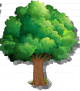
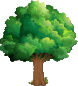
Trees, creatures obstacle collision and stop hero added

diff --git a/DAWN EVILS/DAWN EVILS.cpp b/DAWN EVILS/DAWN EVILS.cpp
@@ -119,9 +119,10 @@ ID2D1Bitmap* bmpShot[33]{ nullptr };
 
 dll::creature_ptr Hero{ nullptr };
 std::vector<dll::creature_ptr>vZombies;
+std::vector<dll::creature_ptr>vBullets;
+std::vector<dll::PROTON>vTrees;
 
-
-
+bool stop_hero = false;
 
 ///////////////////////////////////////////////////
 template<typename T>concept InHeap = requires(T check_var)
@@ -206,13 +207,44 @@ void InitGame()
     name_set = false;
 
     ClearHeap(&Hero);
-    Hero = dll::CreatureFactory(hero_flag, RandGenerator(0, (int)(scr_width - 100.0f)), (int)(ground - 80.0f));
+    Hero = dll::CreatureFactory(hero_flag, (float)(RandGenerator(0, (int)(scr_width - 100.0f))), (int)(ground - 80.0f));
     if (!vZombies.empty())
         for (int i = 0; i < vZombies.size(); i++)ClearHeap(&vZombies[i]);
     vZombies.clear();
+    if (!vBullets.empty())
+        for (int i = 0; i < vBullets.size(); i++)ClearHeap(&vBullets[i]);
+    vBullets.clear();
+   
+    vTrees.clear();
 
+    for (float rows = 100.0f; rows < ground - 100.0f; rows += 100.0f)
+    {
+        for (float cols = 50.0f; cols < scr_width - 100.0f; cols += 100.0f)
+        {
+            if (RandGenerator(0, 4) == 1)
+            {
+                vTrees.push_back(dll::PROTON(cols, rows));
+                switch (RandGenerator(0, 2))
+                {
+                case 0:
+                    vTrees.back().SetFlag(tree1_flag);
+                    vTrees.back().NewDims(47.0f, 80.0f);
+                    break;
+
+                case 1:
+                    vTrees.back().SetFlag(tree2_flag);
+                    vTrees.back().NewDims(78.0f, 86.0f);
+                    break;
+
+                case 3:
+                    vTrees.back().SetFlag(tree3_flag);
+                    vTrees.back().NewDims(98.0f, 90.0f);
+                    break;
+                }
+            }
+        }
+    }
 }
-
 
 INT_PTR CALLBACK bDlgProc(HWND hwnd, UINT ReceivedMsg, WPARAM wParam, LPARAM lParam)
 {
@@ -397,6 +429,24 @@ LRESULT CALLBACK bWinProc(HWND hwnd, UINT ReceivedMsg, WPARAM wParam, LPARAM lPa
 
         }
         break;
+
+    case WM_LBUTTONDOWN:
+        if (HIWORD(lParam <= 50))
+        {
+
+        }
+        else
+        {
+            stop_hero = false;
+            if (Hero)Hero->Move(true, LOWORD(lParam), HIWORD(lParam));
+        }
+        break;
+
+    case WM_RBUTTONDOWN:
+        stop_hero = true;
+        break;
+
+
 
     default: return DefWindowProc(hwnd, ReceivedMsg, wParam, lParam);
     }
@@ -810,8 +860,70 @@ int APIENTRY wWinMain(_In_ HINSTANCE hInstance, _In_opt_ HINSTANCE hPrevInstance
             }
         }
 
+        if (Hero)
+        {
+            if (!stop_hero)
+            {
+                bool obstacle_hit = false;
+                if (!vTrees.empty())
+                {
+                    for (int i = 0; i < vTrees.size(); ++i)
+                    {
+                        if (!(Hero->x >= vTrees[i].ex || Hero->ex <= vTrees[i].x
+                            || Hero->y >= vTrees[i].ey || Hero->ey <= vTrees[i].y))
+                        {
+                            Hero->ObstacleDetour(vTrees[i]);
+                            obstacle_hit = true;
+                            break;
+                        }
+                    }
+                }
 
+                if (!obstacle_hit) Hero->Move(false);
+            }
 
+            int bull_strenght = Hero->Attack();
+            if (bull_strenght > 0 && !vZombies.empty())
+            {
+                dll::PROT_CONTAINER Targets(vZombies.size());
+                for (int i = 0; i < vZombies.size(); ++i)
+                {
+                    dll::PROTON Dummy{ vZombies[i]->x, vZombies[i]->y };
+                    Targets.push_back(Dummy);
+                }
+                dll::PROTON HeroPosition{ Hero->x,Hero->y };
+                Targets.distance_sort(HeroPosition);
+
+                vBullets.push_back(dll::CreatureFactory(bullet_flag, Hero->ex, Hero->y + 20.0f, Targets[0].x, Targets[0].y));
+            }
+        }
+
+        if (!vBullets.empty())
+        {
+            for (std::vector<dll::creature_ptr>::iterator bullet = vBullets.begin(); bullet < vBullets.end(); ++bullet)
+            {
+                (*bullet)->Move(false);
+                if ((*bullet)->x <= 0 || (*bullet)->ex >= scr_width || (*bullet)->y <= sky || (*bullet)->ey >= ground)
+                {
+                    (*bullet)->Release();
+                    vBullets.erase(bullet);
+                    break;
+                }
+            }
+        }
+
+        if (!vTrees.empty() && !vZombies.empty())
+        {
+            for (std::vector<dll::creature_ptr>::iterator zombie = vZombies.begin(); zombie < vZombies.end(); zombie++)
+            {
+                for (int i = 0; i < vTrees.size(); i++)
+                {
+                    if (!((*zombie)->x >= vTrees[i].ex || (*zombie)->ex <= vTrees[i].x
+                        || (*zombie)->y >= vTrees[i].ey || (*zombie)->ey <= vTrees[i].y))
+                        (*zombie)->ObstacleDetour(vTrees[i]);
+                }
+            }
+        }
 
         // DRAW THINGS *********************************************
 
@@ -839,7 +951,7 @@ int APIENTRY wWinMain(_In_ HINSTANCE hInstance, _In_opt_ HINSTANCE hPrevInstance
         }
 
         Draw->DrawBitmap(bmpField, D2D1::RectF(0, 50.0f, scr_width, scr_height));
-
+        
         if (Hero)
         {
             switch (Hero->dir)
@@ -888,6 +1000,27 @@ int APIENTRY wWinMain(_In_ HINSTANCE hInstance, _In_opt_ HINSTANCE hPrevInstance
             }
         }
 
+        if (!vBullets.empty())
+        {
+            for (int i = 0; i < vBullets.size(); ++i)
+            {
+                int one_frame = vBullets[i]->GetFrame();
+                Draw->DrawBitmap(bmpShot[one_frame], Resizer(bmpShot[one_frame], vBullets[i]->x, vBullets[i]->y));
+            }
+        }
+
+        if (!vTrees.empty())
+        {
+            for (int i = 0; i < vTrees.size(); i++)
+            {
+                if (vTrees[i].GetFlag(tree1_flag))
+                    Draw->DrawBitmap(bmpTree1, D2D1::RectF(vTrees[i].x, vTrees[i].y, vTrees[i].ex, vTrees[i].ey));
+                else if (vTrees[i].GetFlag(tree2_flag))
+                    Draw->DrawBitmap(bmpTree2, D2D1::RectF(vTrees[i].x, vTrees[i].y, vTrees[i].ex, vTrees[i].ey));
+                else
+                    Draw->DrawBitmap(bmpTree3, D2D1::RectF(vTrees[i].x, vTrees[i].y, vTrees[i].ex, vTrees[i].ey));
+            }
+        }
 
         //////////////////////////////////////////////////////////
 

diff --git a/DAWN EVILS/GameAux.h b/DAWN EVILS/GameAux.h
@@ -25,6 +25,15 @@ constexpr unsigned char tree3_flag{ 0b01000000 };
 
 constexpr unsigned char bullet_flag{ 0b10000000 };
 
+constexpr unsigned char obstacle_up{ 0b00000001 };
+constexpr unsigned char obstacle_down{ 0b00000010 };
+constexpr unsigned char obstacle_left{ 0b00000100 };
+constexpr unsigned char obstacle_right{ 0b00001000 };
+constexpr unsigned char obstacle_up_left{ 0b00000101 };
+constexpr unsigned char obstacle_up_right{ 0b00001001 };
+constexpr unsigned char obstacle_down_left{ 0b00000110 };
+constexpr unsigned char obstacle_down_right{ 0b00001010 };
+
 enum class dirs { left = 0, right = 1, up = 2, down = 3, stop = 4 };
 
 namespace dll
@@ -130,6 +139,7 @@ namespace dll
 
 			int lifes{ 0 };
 			dirs dir{ dirs::right };
+			unsigned char obstacle_flags = 0b00000000;
 
 			BASE_CREATURE(unsigned char type, float startX, float startY);
 			virtual ~BASE_CREATURE() {};
@@ -139,6 +149,8 @@ namespace dll
 			virtual void Release() = 0;
 			virtual void Move(bool need_new_path = false, float dest_x = 0, float dest_y = 0, float gear=  1.0f) = 0;
 			int Attack();
+
+			void ObstacleDetour(PROTON& Obstacle);
 	};
 
 	typedef BASE_CREATURE* creature_ptr;
